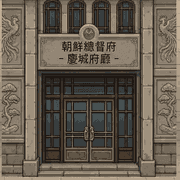
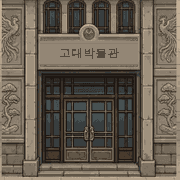
feat: 부활창 10초 고정, 순위표 내 주변만 표시, 「고대박물관」 간판 다시 새김
- 부활 창을 지갑과 무관하게 **항상 10초**로 되돌림
  · "걸 신발 없으면 5초"는 사람마다 화면 머무는 시간이 달라져 예측이 안 됐고,
    남들의 종료 판정은 어차피 10초 고정이라 규칙이 둘로 갈려 있었다
- 패배 화면의 "부활을 아껴쓰세요…" 3줄 팁 삭제

- 명예의 전당: 내가 가운데 오도록 앞뒤 5줄씩만 표시 (services/rankWindow.js)
  · 11등이면 6~16등, 200등이면 195~200등이 보인다
  · 길이는 항상 고정 — 1등이라 위로 못 뻗으면 아래로 더 준다
  · 순수 함수로 분리해 qa:rank 에서 브라우저 없이 검사 (leaderboard.js 는 노드에서 못 부른다)

- 맵 「조선총독부」 → 「고대박물관」, 1층 간판의 한자도 실제로 지우고 한글로 새김
  · tools/build-museum-sign.mjs 신설. 이름만 바꾸면 화면과 메뉴가 다른 말을 한다
  · 지우기 방식을 세 번 갈아엎었다: 좌우 메우기(가로 줄무늬) → 세로 메우기(세로 줄무늬)
    → 여백 띠 반복(점선 무늬) → 줄 중앙값으로 평탄화(채택)
  · 이 그림은 32색 양자화라 석판 안쪽이 사실상 단색(줄 중앙값 전부 132)이다.
    디더를 복사해 붙이면 원본에 없던 규칙이 생긴다
  · 글자는 갈무리11 볼드(게임 인게임 폰트와 동일), 잉크색은 원래 한자 색을 측정해 사용
  · 멱등(md5 확인) + assets:bg 에 연결 (안 묶으면 배경 재생성 시 한자가 되살아난다)

- 로비 버튼 폰트 19 → 17px (한 단계 축소)

Changed region(s): [[0.3333, 0.2222, 0.6667, 0.3611], [0.7222, 0.2222, 0.7778, 0.3611], [0.2222, 0.2222, 0.2778, 0.3611]]

diff --git a/src/services/rankWindow.js b/src/services/rankWindow.js
@@ -1,0 +1,44 @@
+/**
+ * 순위표를 **내 주변만** 잘라 낸다. (2026-08-19)
+ *
+ * ## 왜
+ *
+ * 예전에는 언제나 1등부터 보여 줬다. 그런데 내가 11등이면 1~10등은 그냥 스크롤해
+ * 지나쳐야 하는 줄이다 — *"내가 11등이면 굳이 1등이 누군지 볼 필요가 있을까?"* (사용자).
+ * 순위표에서 사람이 실제로 궁금해하는 건 **바로 위·아래에 누가 있는지**다.
+ * 200명 중 200등이면 195~205등 언저리가 보여야 한다.
+ *
+ * ## 왜 별도 파일인가
+ *
+ * `leaderboard.js` 는 `firebase.js` → `import.meta.env` 를 타서 **노드에서 불러오는
+ * 순간 죽는다**(§9-0-5 에 같은 이유로 `periodKeys.js` 를 뗀 기록이 있다).
+ * 이 계산은 순수 함수라 브라우저 없이 검사할 수 있어야 하므로 여기 따로 둔다.
+ */
+
+/** 내 위아래로 몇 줄씩 보여 줄지 (총 2*RADIUS+1 줄) */
+export const RANK_WINDOW_RADIUS = 5;
+
+/**
+ * @param {Array<{uid:string}>} rows 순위 순으로 정렬된 목록 (1등이 [0])
+ * @param {string|null|undefined} myUid
+ * @param {number} [radius]
+ * @returns {Array} 내가 가운데 오도록 자른 조각. 내가 목록에 없으면 앞에서부터.
+ *
+ * **길이를 항상 일정하게 유지한다.** 내가 1등이라 위로 못 뻗으면 그만큼 아래로 더 준다 —
+ * 안 그러면 상위권일수록 목록이 짧아져서 화면이 들쭉날쭉해 보인다.
+ */
+export function rankWindow(rows, myUid, radius = RANK_WINDOW_RADIUS) {
+  const list = Array.isArray(rows) ? rows : [];
+  const size = radius * 2 + 1;
+  if (list.length <= size) return list;               // 다 보여 줘도 짧다
+
+  const i = myUid ? list.findIndex((r) => r.uid === myUid) : -1;
+  // 내가 목록에 없으면(순위 밖이거나 비로그인) 예전처럼 위에서부터 — 하단 '내 순위' 줄이 따로 있다
+  if (i < 0) return list.slice(0, size);
+
+  // 가운데에 놓되 양 끝에서는 안쪽으로 민다 (길이 고정)
+  let start = i - radius;
+  if (start < 0) start = 0;
+  if (start + size > list.length) start = list.length - size;
+  return list.slice(start, start + size);
+}

diff --git a/src/game/overlays.js b/src/game/overlays.js
@@ -336,13 +336,14 @@ export class MultiDeathOverlay {
      * (그 신발은 아무도 안 걷는다), 짧으면 억울하게 기회를 잃는다.
      */
     /**
-     * ★ **걸 신발이 없으면 창을 짧게.** (2026-08-19)
-     * 고를 수 있는 게 '나가기' 하나뿐인데 10초를 세는 건 그냥 기다리게 하는 것이다.
-     * 남들의 판정 기준은 여전히 10초다 — 남은 사람은 내 지갑을 모른다.
-     * 이쪽이 먼저 닫히면서 `out` 도장을 찍으므로 남들도 그 즉시 기다림을 멈춘다.
+     * ★ **부활 창은 지갑과 무관하게 항상 10초다.** (2026-08-19 4차, 사용자 요청)
+     *
+     * 한동안은 걸 신발이 없으면 5초로 줄였다("고를 게 나가기뿐인데 10초는 길다").
+     * 그런데 그러면 **사람마다 죽은 뒤 화면이 머무는 시간이 달라져** 예측이 안 된다 —
+     * 남들의 종료 판정은 어차피 10초 고정이라 규칙이 둘로 갈리기도 했다.
+     * 하나로 통일하는 쪽이 게임을 읽기 쉽게 만든다.
      */
-    const 걸수있다 = (getProfile().shoesOwned ?? 0) >= MULTI.reviveCost && canRevive(this.me);
-    const 창초 = 걸수있다 ? MULTI.reviveWindowSeconds : MULTI.reviveWindowShortSeconds;
+    const 창초 = MULTI.reviveWindowSeconds;
     const me = game.room?.players?.[game.multi?.myUid];
     const 서버기준끝 = (me?.deadAt ?? 0) + 창초 * 1000;
     const 내시계로 = 서버기준끝 - Room.serverOffsetSync();

diff --git a/src/screens/HallOfFame.js b/src/screens/HallOfFame.js
@@ -12,6 +12,7 @@
 import S from '../config/strings.ko.js';
 import { el, button, backButton, screen, title } from './ui.js';
 import { get as getProfile } from '../services/profile.js';
+import { rankWindow } from '../services/rankWindow.js';
 import { fetchBoard } from '../services/leaderboard.js';
 import { characterSprite, characterById } from '../data/characters.js';
 
@@ -142,8 +143,13 @@ export default function HallOfFame(nav) {
       } else if (!state.data.rows.length) {
         body = el('div.hint', S.noRankYet);
       } else {
+        /**
+         * ★ **내가 가운데 오도록 잘라서 보여 준다.** (2026-08-19, 사용자 요청)
+         * 11등인 사람에게 1~10등은 스크롤로 지나칠 줄일 뿐이다. 줄마다 등수 숫자가
+         * 찍히므로 목록이 6등부터 시작해도 헷갈리지 않는다.
+         */
         body = el('div.rank-list', null,
-          state.data.rows.map((r) => row(r, { unit: tab.unit, me: r.uid === me.uid }))
+          rankWindow(state.data.rows, me.uid).map((r) => row(r, { unit: tab.unit, me: r.uid === me.uid }))
         );
       }
 

diff --git a/src/screens/multi/MultiResult.js b/src/screens/multi/MultiResult.js
@@ -320,11 +320,8 @@ export default function MultiResult(nav, params = {}) {
               el('div.defeat-sub', S.loseSub),
               // 기획서에 못 박힌 문구라 토씨를 바꾸지 않는다 (§6-2)
               el('div.defeat-lost', S.loseTaken(settle?.lost ?? myOwed())),
-              el('div.tip', null, [
-                el('div.tip-head', S.tipTitle),
-                el('div', S.tipBody1),
-                el('div', S.tipBody2),
-              ]),
+              // ※ 여기 있던 '부활을 아껴쓰세요…' 3줄 팁은 삭제했다 (2026-08-19, 사용자 요청).
+              //    깃발·큰 문구·잃은 수까지 읽고 나면 더 읽을 것이 남아 있지 않은 게 낫다.
             ]),
 
         el('div.rank-list', null, rankings.map((uid, i) =>

diff --git a/src/styles/screens.css b/src/styles/screens.css
@@ -56,8 +56,11 @@
    * 이 아예 없다 — 제목 자리에 로고 이미지가 들어간다). 처음에 `.screen-title` 만
    * 키웠더니 각 화면에 **들어가야** 커진 게 보여서, 정작 로비를 보면 그대로였다.
    * 그래서 버튼도 같이 키운다. 좁은 자리(난이도 선택·방 목록)는 아래에서 되돌린다.
+   *
+   * ※ 19 → **17px** (한 단계 내림, 2026-08-19 4차). 15px 는 작았고 19px 는 컸다 —
+   *   로비 메뉴 여섯 줄이 한 화면에 편하게 들어오는 지점이 그 사이였다.
    */
-  font-size: 19px;
+  font-size: 17px;
   font-weight: bold;
   letter-spacing: 0.5px;
   color: #3A1F0C;

diff --git a/src/data/backgrounds.js b/src/data/backgrounds.js
@@ -16,7 +16,9 @@ export const BUILDINGS = [
   { id: 'build_07', name: '조선' },
   { id: 'build_08', name: '고대국' },
   { id: 'build_09', name: '북미 부잣집' },
-  { id: 'build_10', name: '조선총독부' },
+  // 원래 「조선총독부」. 이름과 함께 1층 간판의 한자도 바꿔 새겼다
+  // (tools/build-museum-sign.mjs) — 이름만 갈면 화면과 메뉴가 다른 말을 한다. (2026-08-19)
+  { id: 'build_10', name: '고대박물관' },
   { id: 'build_11', name: '고대 이집트' },
   { id: 'build_12', name: '폴란드' },
   { id: 'build_13', name: '숲속의 별장' },
